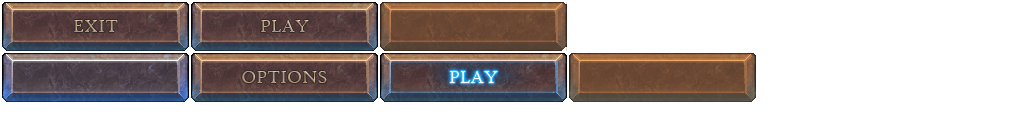
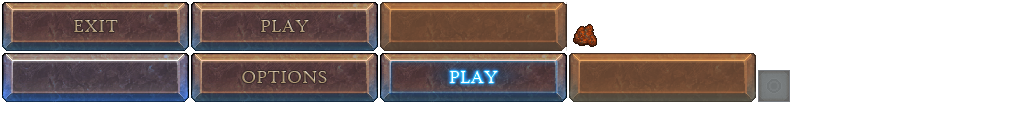
Started work on inventory

Changed region(s): [[0.7188, 0.5312, 0.7812, 0.8125], [0.5625, 0.1875, 0.5938, 0.375]]

diff --git a/UltimateRoguelike/core/src/gurbx/ultimateroguelike/menu/SettingsMenu.java b/UltimateRoguelike/core/src/gurbx/ultimateroguelike/menu/SettingsMenu.java
@@ -98,12 +98,6 @@ public class SettingsMenu {
 				masterVolumeLabel.setText(""+ (int) (SettingsDataHandler.settings.getMasterVolume()*100f));
 				
 				SoundHandler.updateMusicVolume();
-				
-				if (masterSlider.getValue() == 0) {
-					SettingsDataHandler.settings.masterMuted = true;
-				} else { 
-					SettingsDataHandler.settings.masterMuted = false;
-				}
 			}
 		});
 		
@@ -115,12 +109,6 @@ public class SettingsMenu {
 			public void changed(ChangeEvent event, Actor actor) {
 				SettingsDataHandler.settings.setSoundVolume(soundSlider.getValue()/100f);
 				soundVolumeLabel.setText(""+ (int) (SettingsDataHandler.settings.getSoundVolume()*100f));
-				
-				if (soundSlider.getValue() == 0) {
-					SettingsDataHandler.settings.soundMuted = true;
-				} else { 
-					SettingsDataHandler.settings.soundMuted = false;
-				}
 			}
 		});
 		
@@ -134,12 +122,6 @@ public class SettingsMenu {
 				musicVolumeLabel.setText(""+ (int) (SettingsDataHandler.settings.getMusicVolume()*100f));
 				
 				SoundHandler.updateMusicVolume();
-				
-				if (musicSlider.getValue() == 0) {
-					SettingsDataHandler.settings.musicMuted = true;
-				} else { 
-					SettingsDataHandler.settings.musicMuted = false;
-				}
 			}
 		});
 	}

diff --git a/UltimateRoguelike/core/src/gurbx/ultimateroguelike/utils/sound/SoundHandler.java b/UltimateRoguelike/core/src/gurbx/ultimateroguelike/utils/sound/SoundHandler.java
@@ -29,7 +29,6 @@ public class SoundHandler {
 	}
 	
 	public static void playSound(Sounds sound) {
-		if (SettingsDataHandler.settings.soundMuted) return;
 		sounds.get(sound).play(sound.volume * SettingsDataHandler.settings.getSoundVolume()
 				* SettingsDataHandler.settings.getMasterVolume());
 	}
@@ -40,7 +39,6 @@ public class SoundHandler {
 //	}
 	
 	public static void playMusic() {
-		if (SettingsDataHandler.settings.musicMuted) return;
 		music.stop();
 		if (music.isPlaying() == false) {
 			music.setVolume(SettingsDataHandler.settings.getMusicVolume() * SettingsDataHandler.settings.getMasterVolume());

diff --git a/UltimateRoguelike/core/src/gurbx/ultimateroguelike/data/Settings.java b/UltimateRoguelike/core/src/gurbx/ultimateroguelike/data/Settings.java
@@ -9,9 +9,6 @@ public class Settings implements Serializable {
 	private float masterVolume;
 	private float soundVolume;
 	private float musicVolume;
-	public boolean masterMuted;
-	public boolean soundMuted;
-	public boolean musicMuted;
 	//RESOLUTION
 	public boolean fullscreen;
 	public int screenWidth;
@@ -21,9 +18,6 @@ public class Settings implements Serializable {
 		masterVolume = 1f;
 		soundVolume = 1f;
 		musicVolume = 1f;
-		masterMuted = false;
-		soundMuted = false;
-		musicMuted = false;
 		
 		fullscreen = false;
 		screenWidth = Constants.VIRTUAL_WIDTH;

diff --git a/UltimateRoguelike/core/src/gurbx/ultimateroguelike/inventory/Item.java b/UltimateRoguelike/core/src/gurbx/ultimateroguelike/inventory/Item.java
@@ -1,0 +1,19 @@
+package gurbx.ultimateroguelike.inventory;
+
+public enum Item {
+	BONE ("bone", 1, 2, true, 32);
+	
+	public String path;
+	public int sellPrice;
+	public int buyPrice;
+	public boolean isSellable;
+	public int stackSize;
+	
+	private Item(String path, int sellPrice, int buyPrice, boolean isSellable, int stackSize) {
+		this.path = path;
+		this.sellPrice = sellPrice;
+		this.buyPrice = buyPrice;
+		this.isSellable = isSellable;
+		this.stackSize = stackSize;
+	}
+}

diff --git a/UltimateRoguelike/core/src/gurbx/ultimateroguelike/components/InventoryItemComponent.java b/UltimateRoguelike/core/src/gurbx/ultimateroguelike/components/InventoryItemComponent.java
@@ -1,0 +1,13 @@
+package gurbx.ultimateroguelike.components;
+
+import com.badlogic.ashley.core.Component;
+import com.badlogic.ashley.core.ComponentMapper;
+
+import gurbx.ultimateroguelike.inventory.Item;
+
+public class InventoryItemComponent implements Component {
+	public static final ComponentMapper<InventoryItemComponent> MAPPER = ComponentMapper.getFor(InventoryItemComponent.class);
+	
+	public boolean isInInventory = false;
+	public Item item;
+}

diff --git a/UltimateRoguelike/core/src/gurbx/ultimateroguelike/inventory/Inventory.java b/UltimateRoguelike/core/src/gurbx/ultimateroguelike/inventory/Inventory.java
@@ -1,0 +1,9 @@
+package gurbx.ultimateroguelike.inventory;
+
+import java.util.ArrayList;
+import java.util.HashMap;
+
+public class Inventory {
+	private ArrayList<InventorySlot> itemSlots;
+	private int inventorySize = 5;
+}

diff --git a/UltimateRoguelike/core/src/gurbx/ultimateroguelike/inventory/InventorySlot.java b/UltimateRoguelike/core/src/gurbx/ultimateroguelike/inventory/InventorySlot.java
@@ -1,0 +1,7 @@
+package gurbx.ultimateroguelike.inventory;
+
+public class InventorySlot {
+	public boolean isEmpty = true;
+	public Item item;
+	public int ammount;
+}

diff --git a/UltimateRoguelike/core/src/gurbx/ultimateroguelike/systems/InventorySystem.java b/UltimateRoguelike/core/src/gurbx/ultimateroguelike/systems/InventorySystem.java
@@ -1,0 +1,7 @@
+package gurbx.ultimateroguelike.systems;
+
+import com.badlogic.ashley.core.EntitySystem;
+
+public class InventorySystem extends EntitySystem {
+
+}
